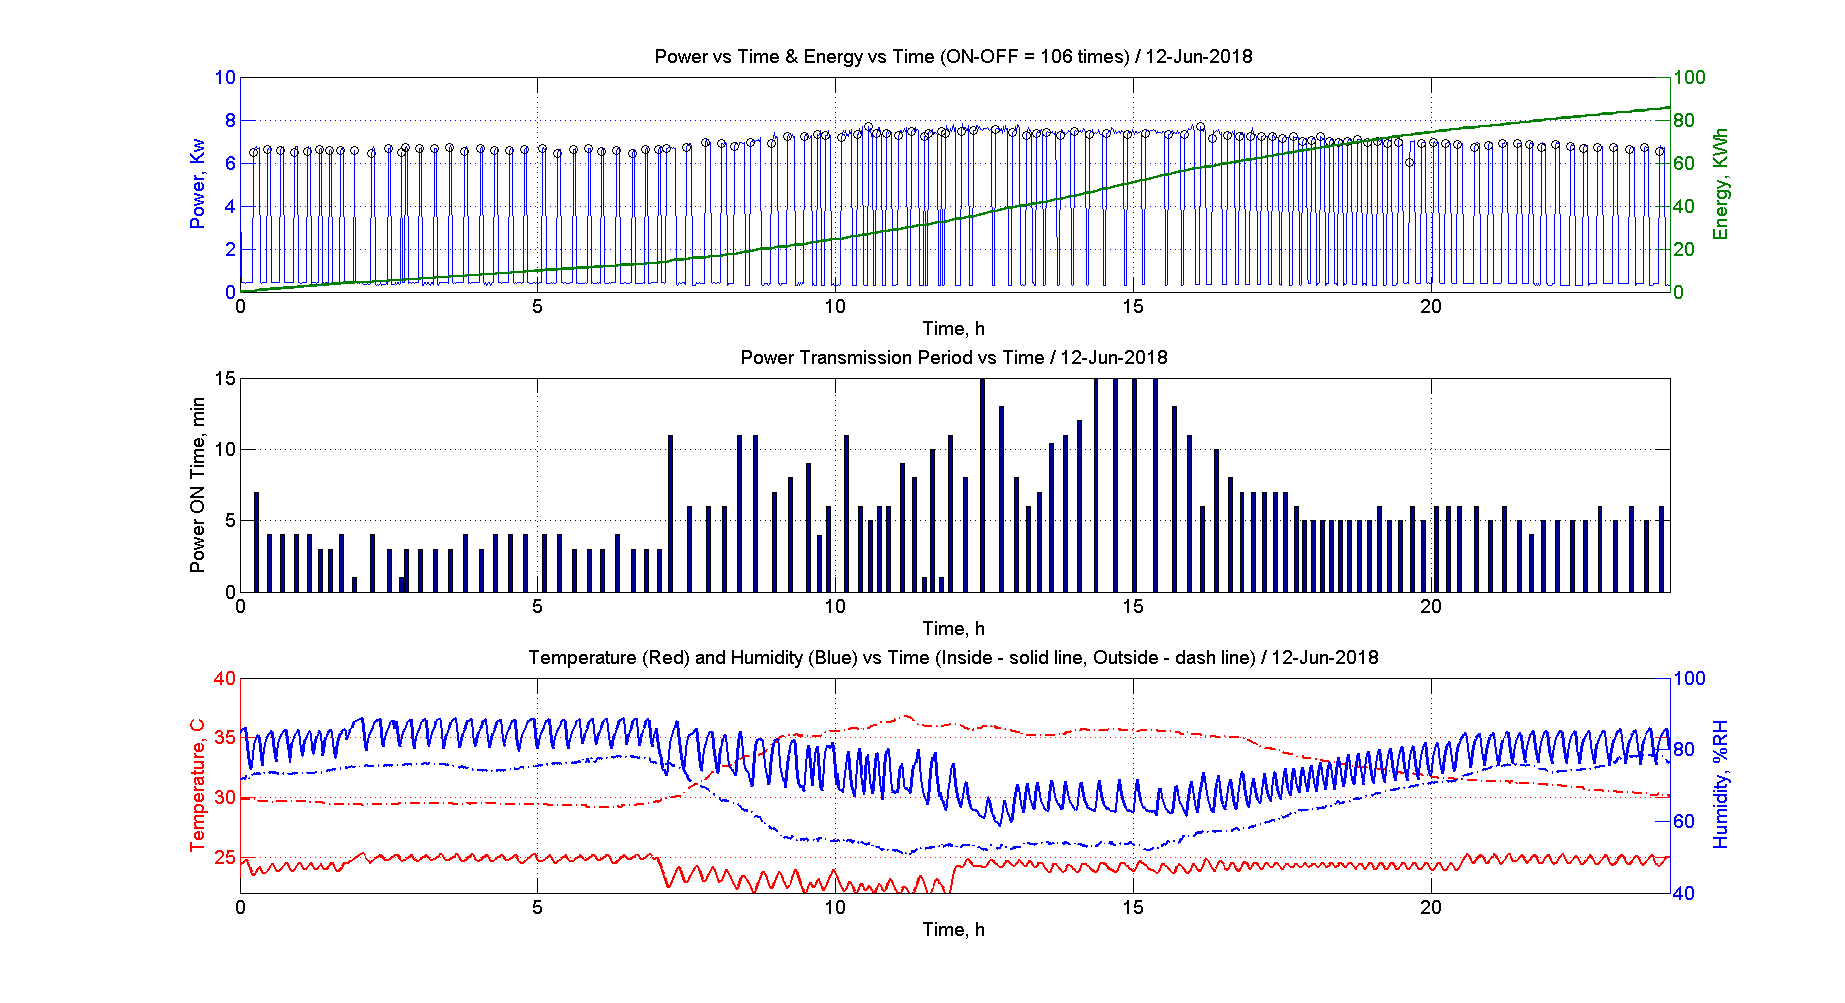
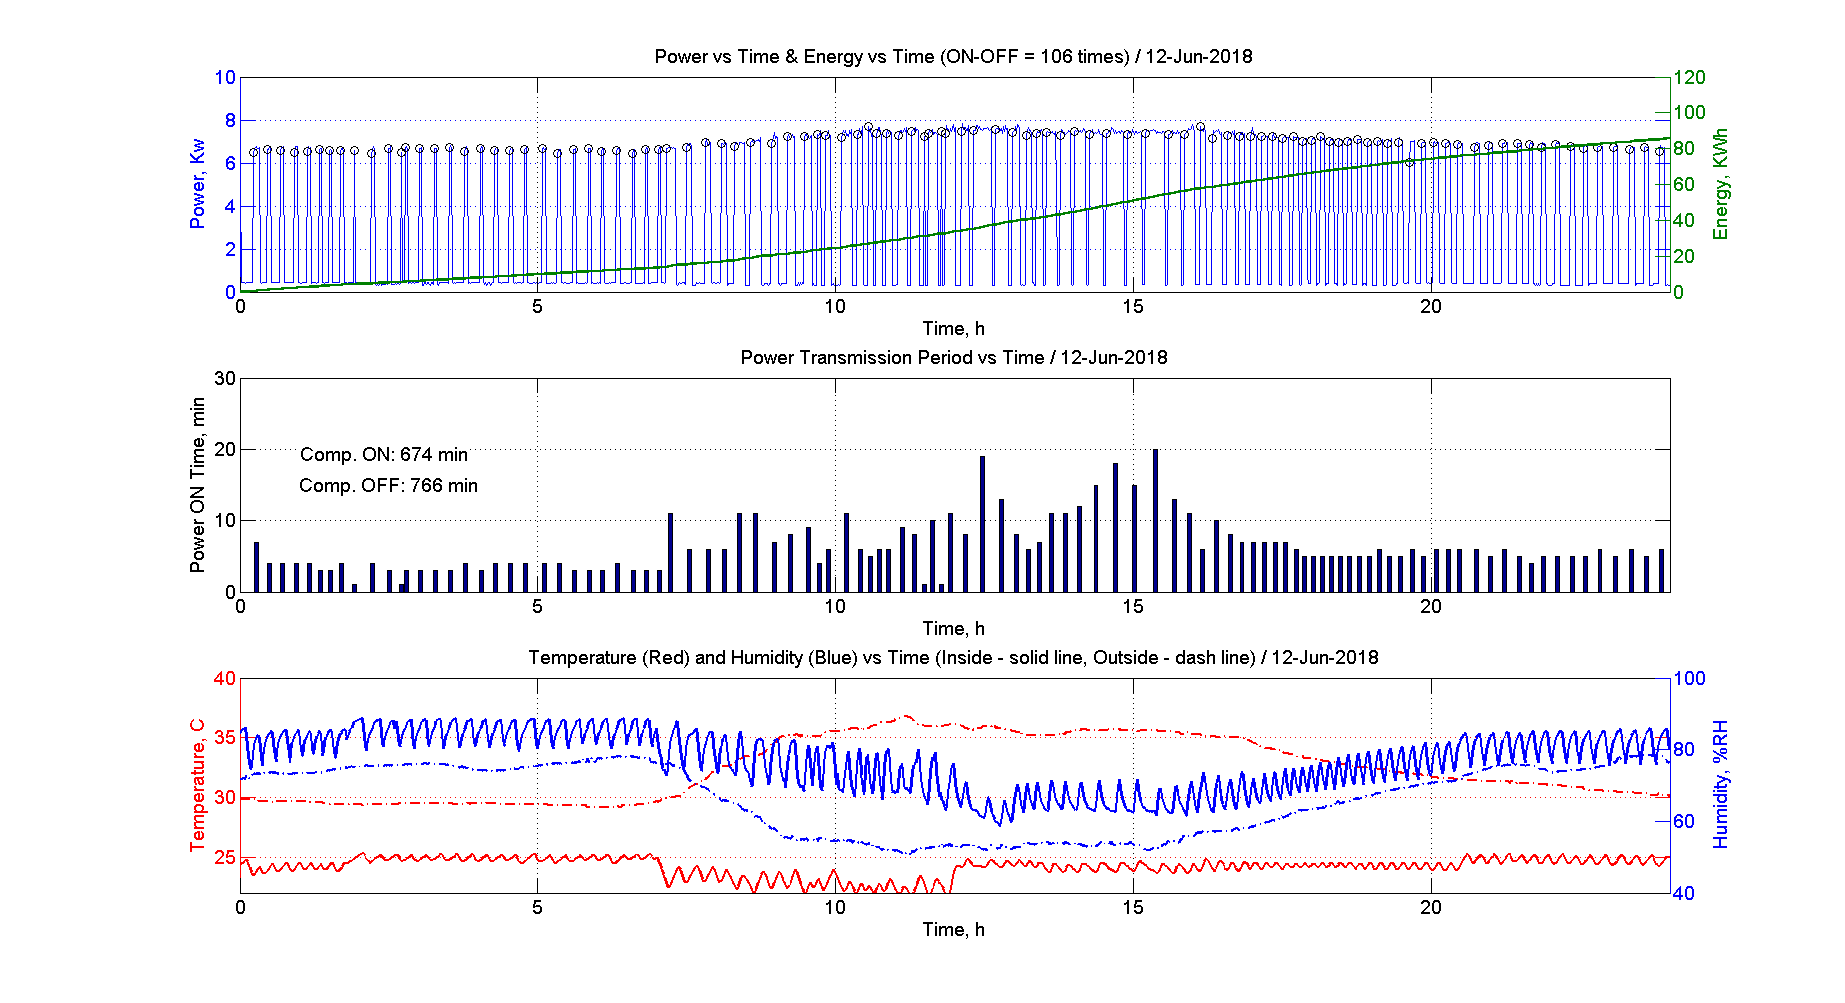
Modify 0612-0613

diff --git a/results_12_Jun/show_graph.m b/results_12_Jun/show_graph.m
@@ -52,6 +52,8 @@ grid on
 title(['Power Transmission Period vs Time / ' datetext])
 xlabel('Time, h')
 ylabel('Power ON Time, min')
+text(1,onpk/2+3,['Comp. ON: ' num2str(round(sum(w*60))+1) ' min'],'fontsize',14,'background','white')
+text(1,onpk/2,['Comp. OFF: ' num2str(round((t(end)-t(1))*60 - sum(w*60))) ' min'],'fontsize',14,'background','white')
 
 %% Temperature & Humidity Inside
 subplot(313)

diff --git a/results_13_Jun/show_graph.m b/results_13_Jun/show_graph.m
@@ -52,6 +52,8 @@ grid on
 title(['Power Transmission Period vs Time / ' datetext])
 xlabel('Time, h')
 ylabel('Power ON Time, min')
+text(1,onpk/2+3,['Comp. ON: ' num2str(round(sum(w*60))+1) ' min'],'fontsize',14,'background','white')
+text(1,onpk/2,['Comp. OFF: ' num2str(round((t(end)-t(1))*60 - sum(w*60))) ' min'],'fontsize',14,'background','white')
 
 %% Temperature & Humidity Inside
 subplot(313)
